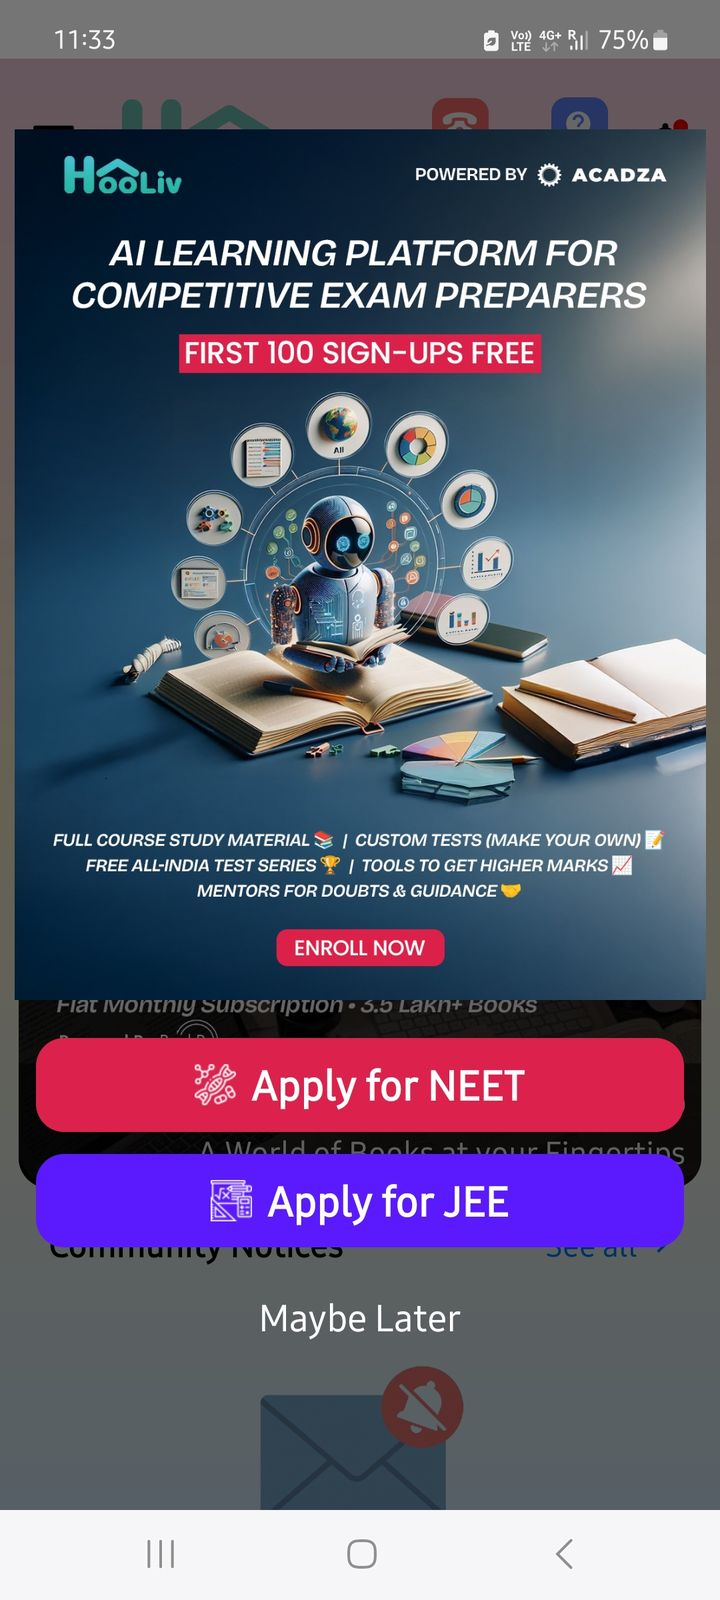
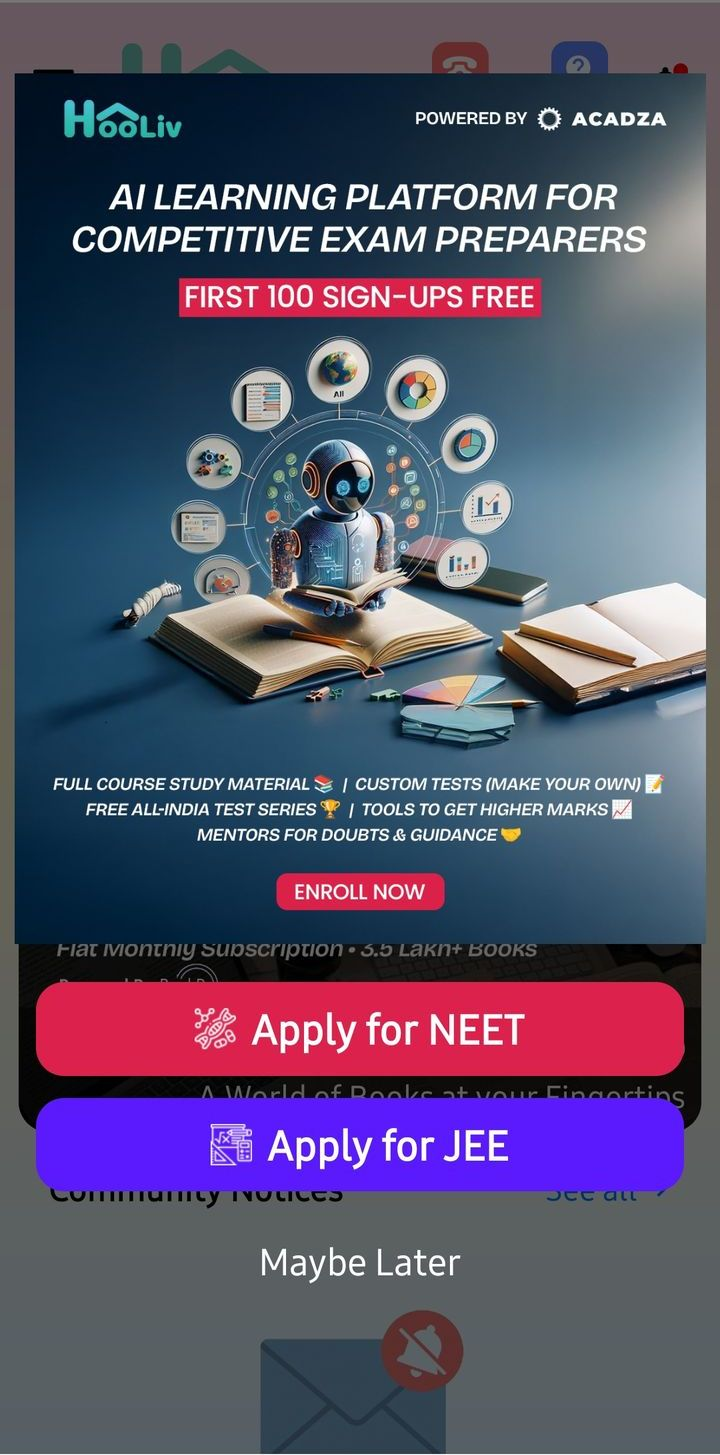
Crop phone status and navigation bars off app screenshots; pin Legistify card image left
21 phone screenshots lose the Android status bar, 13 the bottom navigation or
gesture bar. Desktop screenshots were already clean. The Legistify card image is
anchored left so its headings aren't cut mid-word.

Claude-Session: https://claude.ai/code/session_01GYgNwyDQ4hPGAZ19vvPBwc

diff --git a/src/App.jsx b/src/App.jsx
@@ -1853,7 +1853,7 @@ function AnalysisCard({item,onClick}){
             <div className="an-phones">{item.cardImages.map(src=><img key={src} src={src} alt="" loading="lazy" decoding="async"/>)}</div>
           </div>
         ):item.cardImage?(
-          <img src={item.cardImage} alt="" loading="lazy" decoding="async"/>
+          <img src={item.cardImage} alt="" loading="lazy" decoding="async" style={{objectPosition:"left top"}}/>
         ):item.sheetUrl?(
           <LoadingIframe src={item.sheetUrl.replace(/\/edit.*$/,"/preview")+(item.sheetUrl.includes("gid=")?"?"+item.sheetUrl.split("?")[1]:"")} title="Sheet" style={{width:"150%",height:"150%",transform:"scale(.68)",transformOrigin:"top left",pointerEvents:"none"}}/>
         ):item.embedLink?(
